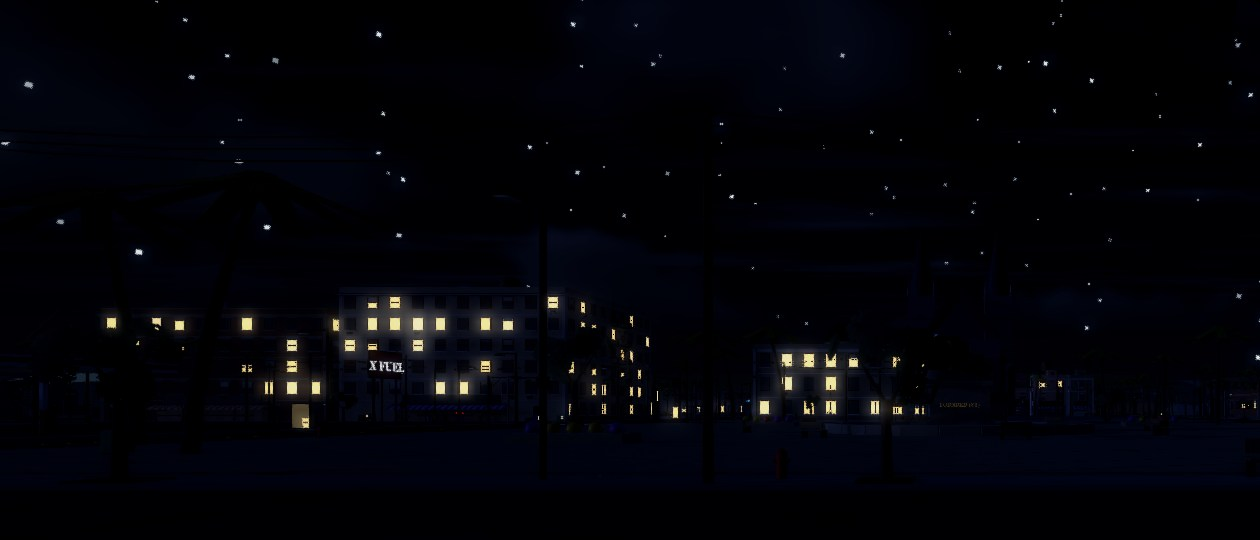
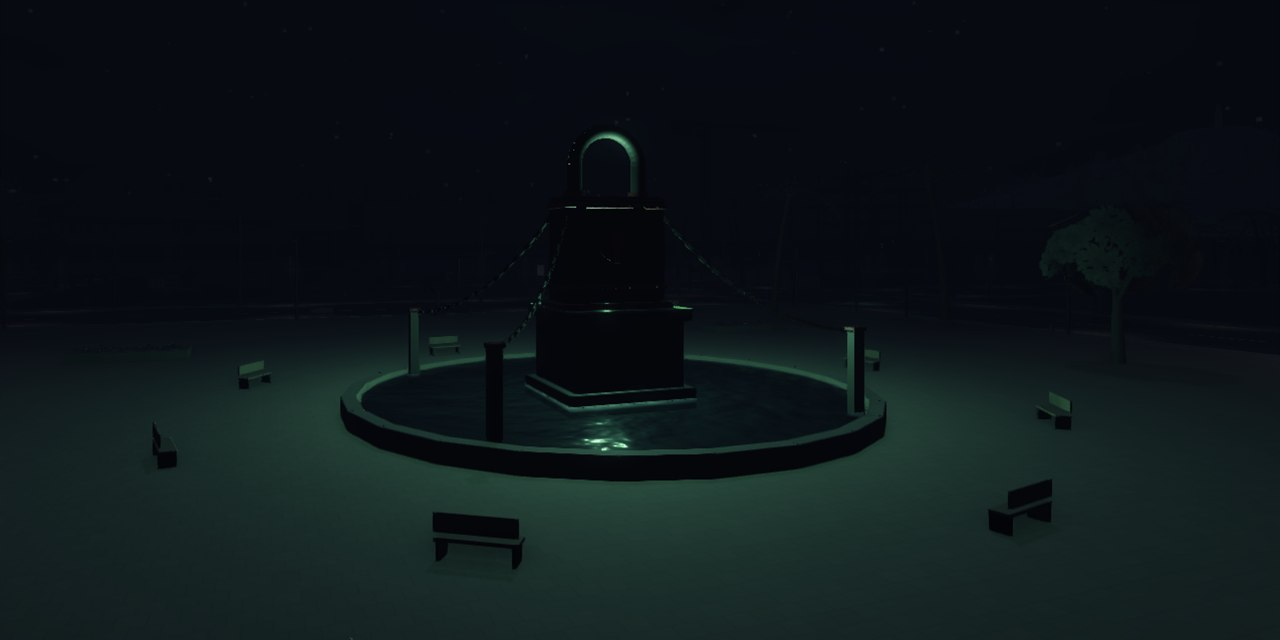
Bring the site in line with the current game, new fountain day and night shots, Discord link

diff --git a/index.html b/index.html
@@ -70,7 +70,7 @@ h1{font:400 clamp(3.4rem,10.4vw,9.4rem)/.98 var(--display);text-transform:upperc
 
 /* city */
 .sky{position:relative;border:3px solid var(--accent);outline:1px solid var(--accent);outline-offset:4px;margin:6px 6px 0;background:#000}
-.sky figure{position:relative;aspect-ratio:7/3}
+.sky figure{position:relative;aspect-ratio:2/1}
 .sky img{position:absolute;inset:0;width:100%;height:100%;object-fit:cover;transition:opacity .7s}
 .sky img.off{opacity:0}
 .skybar{display:flex;flex-wrap:wrap;align-items:center;justify-content:space-between;gap:12px 28px;margin-top:24px}
@@ -162,6 +162,9 @@ kbd{min-width:32px;padding:2px 7px;border:1px solid #5a5c63;border-bottom-width:
 footer{padding-block:38px calc(38px + env(safe-area-inset-bottom,0px));background:#0d0d0f;color:var(--mute);font-size:.88rem}
 footer .in{display:flex;flex-wrap:wrap;align-items:center;justify-content:space-between;gap:16px}
 footer img{width:96px;height:auto}
+.discord{display:inline-flex;align-items:center;gap:10px;padding:11px 20px;border:2px solid var(--accent);color:var(--accent);text-decoration:none;font:400 1.05rem/1 var(--display);letter-spacing:.06em;text-transform:uppercase;transition:background .15s,color .15s}
+.discord:hover{background:var(--accent);color:#1a0d06}
+.discord svg{width:22px;height:22px}
 
 @media (max-width:980px){
   .signs,.ops,.leis{grid-template-columns:repeat(2,minmax(0,1fr))}
@@ -173,7 +176,7 @@ footer img{width:96px;height:auto}
   .top ul{display:none}
   .hero>img{height:520px;object-position:58% 0}
   .pitch{position:relative;margin-top:-120px}
-  .sky figure{aspect-ratio:3/2}
+  .sky figure{aspect-ratio:2/1}
   .signs,.ops,.leis,.lands{grid-template-columns:minmax(0,1fr)}
   .cards{gap:14px}
   .badges{grid-template-columns:repeat(6,minmax(0,1fr))}
@@ -228,8 +231,8 @@ footer img{width:96px;height:auto}
 
     <div class="sky">
       <figure>
-        <img id="day" src="assets/city-day.jpg" alt="Lock City by day: a wide street, palm trees, brick blocks and the twin spires of the Chancery" width="1260" height="540">
-        <img id="night" class="off" src="assets/city-night.jpg" alt="Lock City at night: lit apartment windows under a sky full of stars" width="1260" height="540">
+        <img id="day" src="assets/city-day.jpg" alt="The padlock fountain in a Lock City square on a foggy day, ringed by benches, chains and palm trees" width="1280" height="640">
+        <img id="night" class="off" src="assets/city-night.jpg" alt="The padlock fountain at night, its shackle glowing green over dark water" width="1280" height="640">
       </figure>
     </div>
     <div class="skybar">
@@ -245,8 +248,8 @@ footer img{width:96px;height:auto}
     </ul>
 
     <ul class="signs">
-      <li><img src="assets/sign_thechancery.jpg" alt="The Chancery sign" loading="lazy"><h3>The Chancery</h3><p>A gothic cathedral and the seat of government. Its bell tolls twelve at noon on Sundays.</p></li>
-      <li><img src="assets/sign_theredstar.jpg" alt="The Red Star sign" loading="lazy"><h3>The Red Star</h3><p>The only bar in the city, with a jukebox, a pool table and a game of Joker.</p></li>
+      <li><img src="assets/sign_thechancery.jpg" alt="The Chancery sign" loading="lazy"><h3>The Chancery</h3><p>A gothic cathedral and the seat of government. Its bell tolls every hour, day and night.</p></li>
+      <li><img src="assets/sign_theredstar.jpg" alt="The Red Star sign" loading="lazy"><h3>The Red Star</h3><p>The city's bar: a long counter, booths, pool and a Joker table anyone can join.</p></li>
       <li><img src="assets/sunsetmotel.jpg" alt="Sunset Motel sign" loading="lazy"><h3>Sunset Motel</h3><p>Your free first room. Your stash lives in the cupboard.</p></li>
       <li><img src="assets/guardstation.jpg" alt="City Guard Station sign" loading="lazy"><h3>Guard Station</h3><p>Home of the Lock City Guards, who book arrests here before the van to Black Prison.</p></li>
       <li><img src="assets/trainstation.jpg" alt="Lock City Central Rail Station sign" loading="lazy"><h3>Lock City Central</h3><p>Board the Desert Line here for the run out to Dry Creek.</p></li>
@@ -264,7 +267,7 @@ footer img{width:96px;height:auto}
         <h2>Pay is in Scrap</h2>
         <div class="rule"><i></i></div>
       </div>
-      <p class="lede">You do not pick a career in Lock City. Go to a jobs board or open your phone, and the city government hands you one. Skill levels add 15% to your pay each.</p>
+      <p class="lede">You do not pick a career in Lock City. Go to a jobs board or open your phone, and the city government hands you one. Skill levels add 15% to your pay each, and every hour on the job earns a paycheck of 500 Scrap, plus 250 for each level you reach.</p>
       <p class="assign">“The Government of Lock has assigned you to Garbage collection.”</p>
     </div>
     <div>
@@ -276,6 +279,8 @@ footer img{width:96px;height:auto}
             <tr><th scope="row">Garbage</th><td>Six bin stops in the City Sanitation Truck, then back to the depot</td><td class="n">420 / run</td></tr>
             <tr><th scope="row">Deliveries</th><td>City Delivery Truck, paid by the distance</td><td class="n">250 + 0.3 / m</td></tr>
             <tr><th scope="row">Fishing</th><td>Mackerel, cod, sea bass and the occasional old boot</td><td class="n">18 + 22 / kg</td></tr>
+            <tr><th scope="row">Security Guard</th><td>Watch the door at The Red Star or the Velvet in Dry Creek</td><td class="n">Hourly</td></tr>
+            <tr><th scope="row">City Clerk</th><td>Process records at a computer in the City Clerk office</td><td class="n">Hourly</td></tr>
           </tbody>
         </table>
       </div>
@@ -360,7 +365,7 @@ footer img{width:96px;height:auto}
     <div class="head">
       <h2>Under your own flag</h2>
       <div class="rule"><i></i></div>
-      <p class="lede">There are no preset gangs. Players found the factions, set the ranks, pick from 48 insignia, raise a base and defend it. The Lock City Guards answer with tasers, cuffs and a transport van.</p>
+      <p class="lede">There are no preset gangs. Players found the factions, set the ranks, pick from 48 insignia, raise a base and defend it. The Lock City Guards answer with tasers, cuffs and a transport van, and anyone unaffiliated can apply to join them at the Guard Station.</p>
     </div>
     <div class="badges" id="badges" aria-label="Faction insignia"></div>
 
@@ -368,7 +373,7 @@ footer img{width:96px;height:auto}
       <li><h3>Turf</h3><p>Three territories open at a time. Hold the flag and collect on every payday.</p><span class="k mono">90 s to capture · open 25 min</span></li>
       <li><h3>The government train</h3><p>A scrap shipment rolls every hour. Blow the vault, or escort it for the Guards.</p><span class="k mono">12,000 per bag · 1,500 escort</span></li>
       <li><h3>Cartel drop</h3><p>A ping goes out to the whole map, and everyone races for the crates.</p><span class="k mono">Drugs · marked cash · materials</span></li>
-      <li><h3>Planned heists</h3><p>Plan from the board at home: a jewellery store hold-up or the Dry Creek casino cage.</p><span class="k mono">Crew of 1+ · crew of 2+</span></li>
+      <li><h3>Hold-ups</h3><p>Rob a shop, crack a dock container, or stick up another player in the street.</p><span class="k mono">Shops · containers · players</span></li>
       <li><h3>The Undercroft</h3><p>No gun shops here. Find The Broker in the sewers under the church, or craft your own.</p><span class="k mono">“Don’t ask mine.”</span></li>
       <li><h3>Bounties</h3><p>Every kill raises the price on your head.</p><span class="k mono">1,000 per kill · up to 25,000</span></li>
     </ul>
@@ -398,17 +403,17 @@ footer img{width:96px;height:auto}
       <img src="assets/poster_frostlodgewinterfestival.jpg" alt="Winter Festival poster, Frost Lodge" loading="lazy">
     </div>
     <ul class="leis">
-      <li><h3>Street racing</h3><p>Host from your phone. Downtown Loop, The Zigzag or Uptown Sprint, with buy-ins of 300 to 800.</p></li>
+      <li><h3>Street racing</h3><p>Host from your phone on five routes, from the Downtown Loop to the Wall Ring, with buy-ins of 300 to 900. Time trials too.</p></li>
       <li><h3>Silver Spur</h3><p>Slots, roulette and blackjack, with bets from 10 to 5,000 Scrap.</p></li>
       <li><h3>Pool and Joker</h3><p>Eight-ball with real table physics, and a trick-taking card game that fills empty seats.</p></li>
-      <li><h3>Pickup basketball</h3><p>One shared ball on the park court, and yes, you can steal it.</p></li>
-      <li><h3>BMX</h3><p>Grab a bike from the rack at the skatepark for flips, barspins and tailwhips.</p></li>
+      <li><h3>Dry Creek Fight Club</h3><p>A bare-knuckle ring out in the desert town.</p></li>
+      <li><h3>Skatepark</h3><p>Kick the footballs around the skatepark, or try your arm at bottle tossing.</p></li>
       <li><h3>Graffiti</h3><p>Buy a can and paint freehand on a real canvas.</p></li>
       <li><h3>Farm and hunt</h3><p>Grow tomato, corn, potato and pumpkin, cook them at home, or track deer and wolves.</p></li>
-      <li><h3>Radio</h3><p>Curfew FM, RXDXO FM and Frostback FM, from your car or home stereo.</p></li>
+      <li><h3>Radio</h3><p>Locked FM, Frostback FM and Swampwater FM, from your car or home stereo.</p></li>
       <li><h3>Your own place</h3><p>Start at the motel. Cottages run 12,000 Scrap, and houses start at 45,000.</p></li>
     </ul>
-    <p class="tip">Thin pines and cliffs hide the best salvage, and the worst company.</p>
+    <p class="tip">Search the rubble in the ruined blocks for parts and materials.</p>
 
     <div class="fleet scroll">
       <table>
@@ -475,6 +480,10 @@ footer img{width:96px;height:auto}
 <footer>
   <div class="in">
     <img src="assets/logo.png" alt="Soles" width="640" height="169" loading="lazy">
+    <a class="discord" href="https://discord.gg/JWujvvw4yx" target="_blank" rel="noopener">
+      <svg viewBox="0 0 24 24" aria-hidden="true"><path fill="currentColor" d="M20.3 4.4A19.6 19.6 0 0 0 15.4 3l-.6 1.3a18 18 0 0 0-5.6 0L8.6 3a19.5 19.5 0 0 0-4.9 1.5C.6 9.1-.3 13.6.1 18.1a19.8 19.8 0 0 0 6 3l1.3-2.1-2-1 .5-.4a14 14 0 0 0 12.2 0l.5.4-2 1 1.3 2.1a19.7 19.7 0 0 0 6-3c.5-5.2-.8-9.7-3.6-13.7ZM8 15.4c-1.2 0-2.2-1.1-2.2-2.4S6.8 10.6 8 10.6s2.2 1.1 2.2 2.4-1 2.4-2.2 2.4Zm8 0c-1.2 0-2.2-1.1-2.2-2.4s1-2.4 2.2-2.4 2.2 1.1 2.2 2.4-1 2.4-2.2 2.4Z"/></svg>
+      Join the Discord
+    </a>
     <span>Tutorial complete. The city is yours. Stay within the walls.</span>
   </div>
 </footer>
